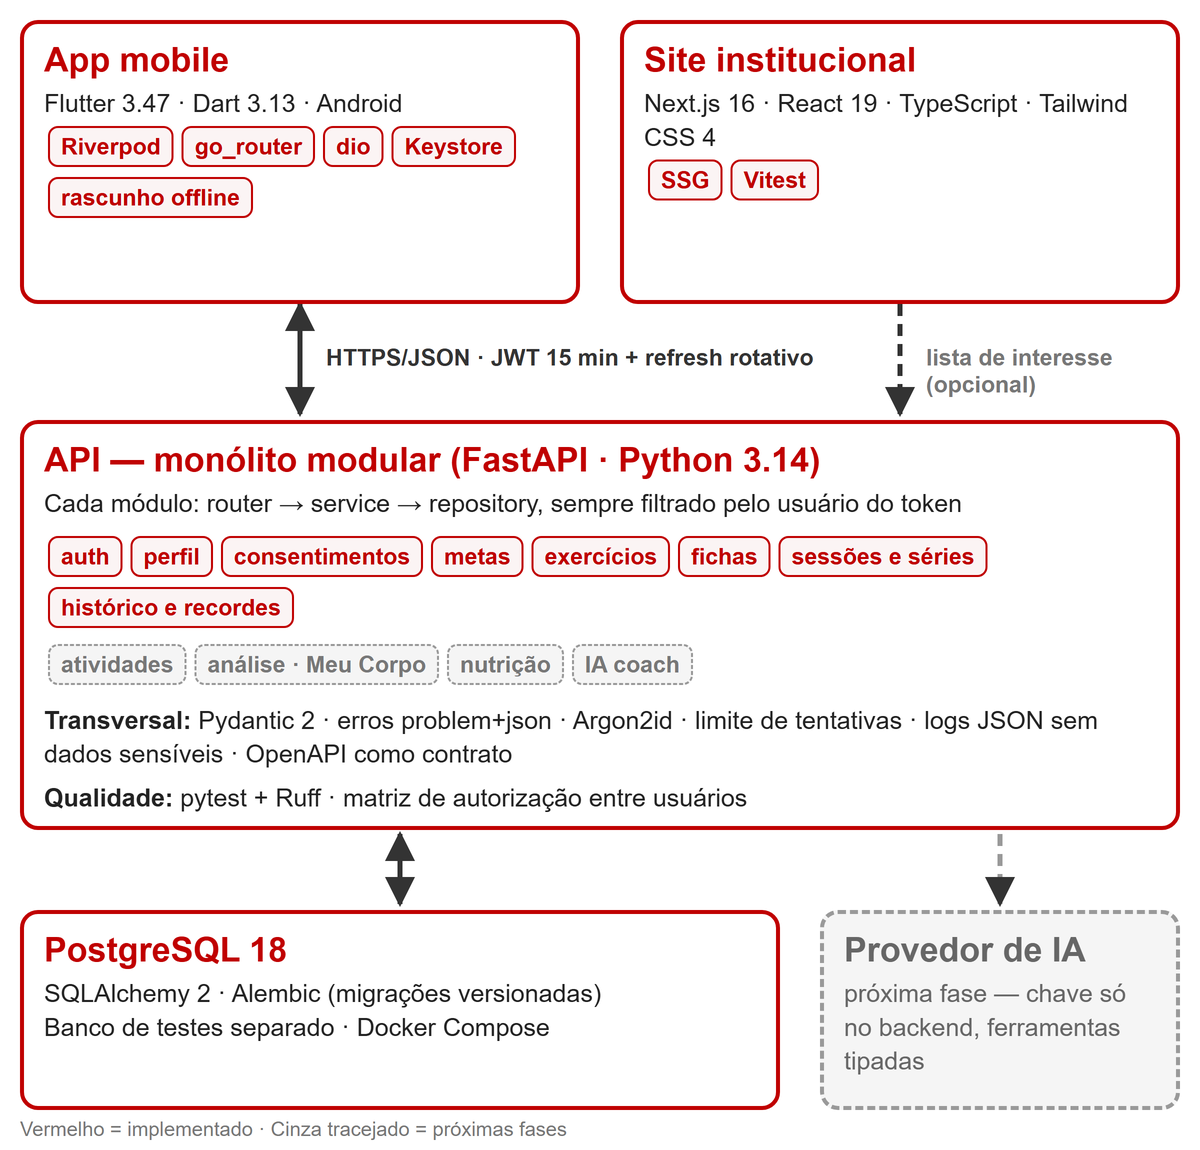
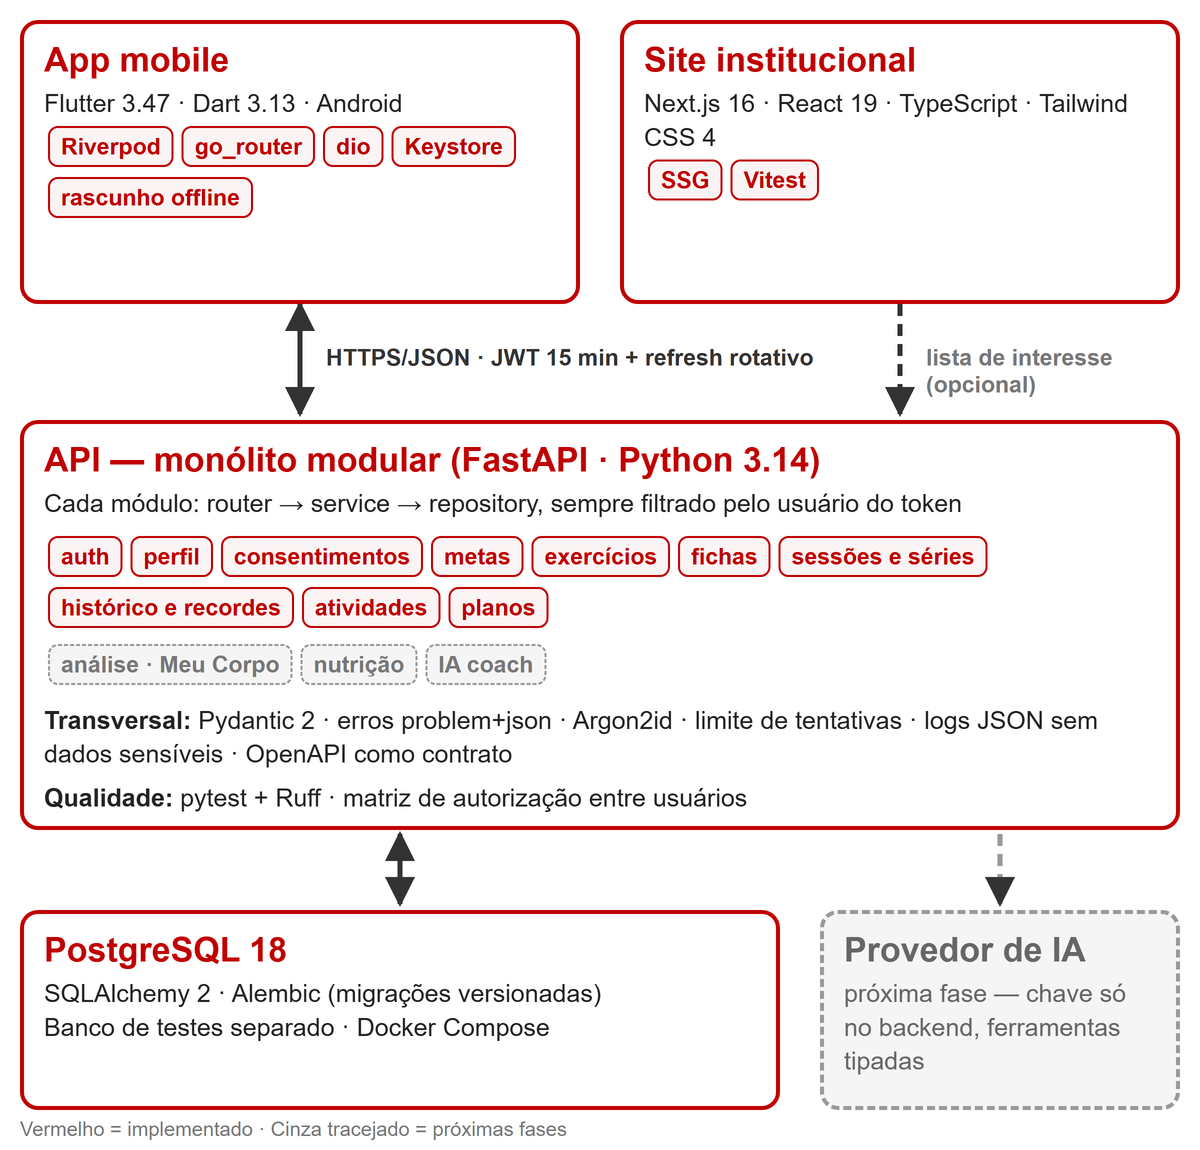
docs: README com a Fase 2 concluída, etapas 3.1 a 3.3 e testes atualizados

Changed region(s): [[0.0617, 0.5174, 0.5858, 0.6087]]

diff --git a/README.md b/README.md
@@ -84,12 +84,13 @@ A Organização Mundial da Saúde recomenda de 150 a 300 minutos semanais de ati
 | RF08 | Registrar drop set, rest-pause, série até a falha e aquecimento | ✅ |
 | RF09 | Consultar o histórico, os recordes e a comparação com a sessão anterior | ✅ |
 | RF10 | Continuar a sessão em andamento depois de fechar o app ou ficar sem internet | ✅ |
-| RF11 | Registrar corrida, caminhada, ciclismo e natação, com pace calculado | 🔜 Fase 3 |
-| RF12 | Visualizar o Meu Corpo 2D com o estímulo por grupo muscular | 🔜 Fase 3 |
-| RF13 | Ver dashboard, gráficos e comparativos de períodos | 🔜 Fase 3 |
-| RF14 | Conversar com a IA sobre o próprio histórico e confirmar ou recusar propostas | 🔜 Fase 4 |
-| RF15 | Registrar refeições, metas nutricionais, peso e medidas | 🔜 Fase 5 |
-| RF16 | Exportar os dados e excluir a conta (LGPD) | 🔜 Fase 5 |
+| RF11 | Registrar corrida, caminhada, ciclismo e natação, com pace e velocidade calculados e FC e elevação opcionais | ✅ |
+| RF12 | Seguir planos progressivos de caminhada, 5 km e 10 km, com as sessões marcadas pelas atividades | ✅ |
+| RF13 | Visualizar o Meu Corpo 2D com o estímulo por grupo muscular | 🔜 Fase 3 |
+| RF14 | Ver dashboard, gráficos e comparativos de períodos | 🔜 Fase 3 |
+| RF15 | Conversar com a IA sobre o próprio histórico e confirmar ou recusar propostas | 🔜 Fase 4 |
+| RF16 | Registrar refeições, metas nutricionais, peso e medidas | 🔜 Fase 5 |
+| RF17 | Exportar os dados e excluir a conta (LGPD) | 🔜 Fase 5 |
 
 ### Requisitos não funcionais
 
@@ -108,7 +109,7 @@ A Organização Mundial da Saúde recomenda de 150 a 300 minutos semanais de ati
 
 ## 6. Casos de uso
 
-O usuário se cadastra, configura objetivos e consentimentos, monta fichas e executa a sessão registrando cada série. As técnicas avançadas estendem o registro da série.
+O usuário se cadastra, configura objetivos e consentimentos, monta fichas e executa a sessão registrando cada série. As técnicas avançadas estendem o registro da série. Ele também registra atividades de resistência e pode seguir um plano progressivo de caminhada, 5 km ou 10 km.
 
 ![Casos de uso do EvoFit](docs/img/casos-de-uso.png)
 
@@ -141,21 +142,21 @@ As versões exatas estão fixadas em `pyproject.toml`, `pubspec.yaml` e `package
 - **Autenticação:** Argon2id (BIRYUKOV et al., 2021) e JWT HS256 de 15 min (JONES; BRADLEY; SAKIMURA, 2015), com refresh opaco de 256 bits guardado só como SHA-256.
 - **No app:** refresh token no Android Keystore; access token só em memória; backup automático do Android desligado.
 - **Autorização:** matriz única de testes ligada ao OpenAPI. Se surgir um endpoint novo sem classificação, a suíte quebra (ADR-038). Segue o OWASP API Security Top 10 (OWASP, 2023).
-- **Dados de saúde:** só com o consentimento `health_data`; revogar apaga limitações e metas de peso (ADR-026).
+- **Dados de saúde:** só com o consentimento `health_data`; revogar apaga limitações e metas de peso (ADR-026). A frequência cardíaca das atividades também é tratada como dado de saúde (ADR-040).
 - **Segredos:** só em variáveis de ambiente; `.env` fora do Git.
 
 Detalhes e pendências jurídicas em [SECURITY_PRIVACY](docs/SECURITY_PRIVACY.md).
 
 ## 10. Metodologia e pacotes de entrega
 
-O desenvolvimento é **incremental**: cada fase termina com uma jornada demonstrável, os testes passando e a documentação atualizada. O backlog é priorizado em P0 (indispensável), P1 (importante) e P2 (desejável). As decisões técnicas são registradas como ADRs (NYGARD, 2011) em [DECISIONS](docs/DECISIONS.md) — 38 até agora. Os commits seguem o padrão de commits convencionais (`feat:`, `test:`, ...).
+O desenvolvimento é **incremental**: cada fase termina com uma jornada demonstrável, os testes passando e a documentação atualizada. O backlog é priorizado em P0 (indispensável), P1 (importante) e P2 (desejável). As decisões técnicas são registradas como ADRs (NYGARD, 2011) em [DECISIONS](docs/DECISIONS.md) — 41 até agora. Os commits seguem o padrão de commits convencionais (`feat:`, `test:`, ...).
 
 | Pacote | Conteúdo | Situação |
 |---|---|---|
 | Fase 0 — Planejamento | Ambiente, viabilidade, riscos, arquitetura, modelo de dados, IA, UX e segurança | ✅ |
 | Fase 1 — Fundação técnica | Monorepo, API com `/health`, migrações, app e site com testes e lint, scripts | ✅ |
-| Fase 2 — Musculação | Auth, onboarding, metas, biblioteca, fichas, sessão, técnicas, histórico, rascunho offline, testes de autorização | ✅ 2.1 a 2.10 (falta validar o aceite) |
-| Fase 3 — Evolução e modalidades | Atividades multimodais, motor de análise, Meu Corpo 2D, gráficos, dashboard | 🔜 |
+| Fase 2 — Musculação | Auth, onboarding, metas, biblioteca, fichas, sessão, técnicas, histórico, rascunho offline, testes de autorização | ✅ (aceite cumprido) |
+| Fase 3 — Evolução e modalidades | Atividades multimodais, pace, planos progressivos, motor de análise, Meu Corpo 2D, gráficos, dashboard | 🚧 3.1 a 3.3 prontas |
 | Fase 4 — IA contextual | Camada de LLM, ferramentas, orquestrador, chat, propostas com confirmação | 🔜 |
 | Fase 5 — Nutrição e refinamento | Alimentos, metas, peso e medidas, site completo, LGPD, testes de usabilidade | 🔜 |
 | Fase 6 — Demonstração | Dados de demonstração, testes de integração, APK de release, documentação final | 🔜 |
@@ -166,11 +167,11 @@ Backlog completo e critérios de aceite em [ROADMAP](docs/ROADMAP.md).
 
 | Parte | Ferramentas | Testes |
 |---|---|---|
-| API | pytest (com PostgreSQL de teste) · Ruff (lint e formatação) | 344 |
-| App | flutter_test (widget e fluxo) · flutter analyze | 175 |
+| API | pytest (com PostgreSQL de teste) · Ruff (lint e formatação) | 424 |
+| App | flutter_test (widget e fluxo) · flutter analyze | 203 |
 | Site | Vitest · ESLint · TypeScript | 6 |
 
-São **525 testes automatizados**, todos passando em 2026-11-04. Um único script roda todas as verificações:
+São **633 testes automatizados**, todos passando em 2026-11-04. Um único script roda todas as verificações:
 
 ```powershell
 .\scripts\test-all.ps1                 # tudo
@@ -179,9 +180,14 @@ São **525 testes automatizados**, todos passando em 2026-11-04. Um único scrip
 
 ## 12. Resultados atuais
 
-As etapas 2.1 a 2.10 estão concluídas na API e no app Android: cadastro e login, onboarding com consentimentos, metas, biblioteca com 67 exercícios com fotos (ADR-030), fichas com grupos, sessão de treino com técnicas avançadas, histórico e recordes, rascunho offline da sessão e testes de autorização entre usuários.
+**Fase 2 concluída**, com o critério de aceite cumprido no Android em 2026-11-04: um usuário novo cria uma ficha com bi-set e drop set, executa a sessão, fecha e reabre o app, finaliza e vê o histórico e os recordes, com tudo salvo no PostgreSQL. A biblioteca tem 67 exercícios com fotos (ADR-030).
 
-**Próximo:** validar o critério de aceite da Fase 2 no Android com um usuário novo (criar ficha com bi-set e drop set, executar a sessão, fechar e reabrir o app, finalizar e ver histórico e recordes) e começar a Fase 3 (corrida e caminhada, motor de análise e Meu Corpo 2D).
+**Fase 3 em andamento:** as etapas 3.1 a 3.3 estão prontas e verificadas no emulador com a API real:
+- registro de corrida, caminhada, ciclismo e natação;
+- pace e velocidade calculados, com FC e elevação opcionais (uma corrida de 5 km em 30 min mostra 6:00/km);
+- planos progressivos de caminhada, 5 km e 10 km.
+
+**Próximo:** 3.4, o motor de análise (frequência, consistência, volume, tendências e comparação de períodos).
 
 ## 13. Como executar
 
